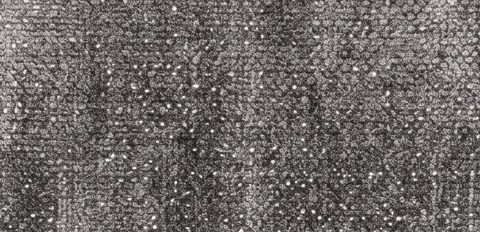
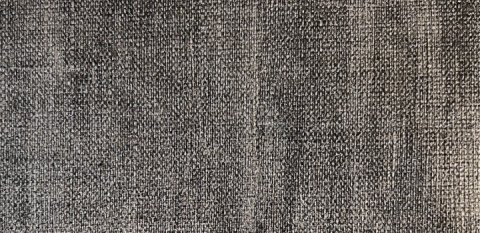
Rono RN01–RN07 dokuları atölye numune fotoğraflarından
Claude-Session: https://claude.ai/code/session_01QER1FqZCmw8rrYpwEQ2poJ

diff --git a/uretim_takip/uretim/parcali.py b/uretim_takip/uretim/parcali.py
@@ -64,13 +64,13 @@ MALZEMELER = [
     ("bienca_bn04", "Bienca BN04 Altın & gümüş eskitme", "#c8ab62"),
     ("bienca_bn05", "Bienca BN05 Krem & yoğun altın eskitme", "#c9bc94"),
     # Rono (üçlü lamine: süet + keçe + Rono) – müşteri kartelası RN01–RN07 (2026-11-05). Anahtarlar eski kayıtlar için aynı.
-    ("acik_gri_keten", "Rono RN01 Gri / vizon", "#b2a092"),
-    ("gri_keten", "Rono RN02 Koyu gri / gümüş", "#676260"),
-    ("krem_keten", "Rono RN03 Krem / bej", "#dbbfa5"),
-    ("antrasit_keten", "Rono RN04 Antrasit / siyah", "#2b2a2c"),
-    ("vizon_keten", "Rono RN05 Vizon / sütlü kahve", "#92755c"),
-    ("kahve_keten", "Rono RN06 Koyu kahve", "#4c3329"),
-    ("beyaz_keten", "Rono RN07 Ekru / beyaz", "#e6dace"),
+    ("acik_gri_keten", "Rono RN01 Gri / vizon", "#a09489"),
+    ("gri_keten", "Rono RN02 Koyu gri / gümüş", "#676361"),
+    ("krem_keten", "Rono RN03 Krem / bej", "#bfad99"),
+    ("antrasit_keten", "Rono RN04 Antrasit / siyah", "#2b2c30"),
+    ("vizon_keten", "Rono RN05 Vizon / sütlü kahve", "#7c6d5a"),
+    ("kahve_keten", "Rono RN06 Koyu kahve", "#513b32"),
+    ("beyaz_keten", "Rono RN07 Ekru / beyaz", "#d3cbc2"),
     # varaklı / simli / metalik
     ("varak_altin", "Beyaz-altın varak", "#e9dcbc"),
     ("varak_gumus", "Beyaz-gümüş varak", "#cfd0d1"),

diff --git a/uretim_takip/uretim/foto_model.py b/uretim_takip/uretim/foto_model.py
@@ -22,7 +22,7 @@ from . import parcali
 KLASOR = Path(__file__).resolve().parent / "tasarim_varlik" / "foto_model"
 DOKU = Path(__file__).resolve().parent / "tasarim_varlik" / "doku"
 ONBELLEK_SINIR = 600
-SURUM = 5  # boyama yöntemi değişince önbellek yenilensin  # önbellekte en çok bu kadar boyanmış resim kalır
+SURUM = 6  # boyama yöntemi değişince önbellek yenilensin  # önbellekte en çok bu kadar boyanmış resim kalır
 
 # bölge türleri: hangi renkler seçilebilir
 MALZEME, DESEN, IPLIK = "malzeme", "desen", "iplik"

diff --git a/CLAUDE.md b/CLAUDE.md
@@ -116,6 +116,7 @@ Formlar `forms.py`, ekranlar `templates/uretim/`, menü `../templates/base.html`
 - İş kolu: programı çok müşterili yapmak (firma adı/logo/istasyon/ürün ayardan).
 
 ## Günlük (en yeni üstte, bir satır)
+- 2026-11-06: Rono RN01–07 dokuları kullanıcının numune fotoğraflarından (`is_belgeleri/rono_numune/`, kartvizit ölçek ~75 px/cm, renk resmî kartelaya %75 yaklaştırıldı, RN05 metalik bronz numune); kartela küçük resimleri + `parcali` hex'leri güncellendi; foto_model SURUM 6. Kullanıcıya önerilen yeni yön (onay bekliyor): boyama yerine halıyı gerçek malzeme dokuları + lazer DXF + nakış DST dosyalarıyla parça parça kurmak; bekleniyor: gümüş biye foto, lazer desen dosyaları, nakış dosyaları.
 - 2026-11-06: 3. güncelleme (migration 0034): Bienca dokuları kullanıcının büyük fotoğraflarından (`doku/bienca_bn01–05.jpg`, ışık düzeltilmiş; BN05 yeni Krem & yoğun altın, BN02 adı Bakır eskitme), Bienca bölgeyi tek parça kaplar (`_bienca_kapla`, tekrar yok); `doku/altin.jpg` gerçek altın; bölge aileleri `bolge_secenekleri` (zemin kendi ailesi RN01–07 / BN, bant RN+BN, desen/biye +altın/gümüş); nakışlı bant `NAKISLI_BANT` (Rono üstüne motif dört kenar, `_nakis_isle` kabartma + saten); RNO-013 nakışlı Rono yakın görünüm (`NAKIS_KUTULARI`, motif sil + yeniden işle), BNA-027/028 (harita aracı `is_belgeleri/foto_model_katalog/yeni_harita.py`); 5 Bienca modelinin ortası BN; bayi Sipariş ver'de ≤3 fotoğraf (`SiparisFotografi.EN_COK` 4), Siparişlerim'de görür, medya yalnız kendi siparişi.
 - 2026-11-05: Aşama 2: katalogdaki 31 Rono/Bienca fotoğrafı fotoğraflı model (`tasarim_varlik/foto_model/katalog.json` + KOD.png, fotoğraf katalog_tohum'dan; harita aracı `is_belgeleri/foto_model_katalog/` yarı otomatik: yüksek frekans enerjisi + `ozel.json` elle orta), bölgeler 1 dış kenar / 2 desenli bant / 3 orta (`sira`); fikirde bant açık/metal, zemin kendi ailesinde; lazer deseni değiştirme (`DESEN_DEGISIR`, `hali_gorsel._kenar_desen_maskesi`, dikdörtgen çerçeveler) ve RNO-006 nakış motifi değiştirme (`NAKIS_DEGISIR`). RNO-007 desen değişimi kötü → kapalı.
 - 2026-11-05: Aşama 1 (migration 0033): siyah simli + ayna altın kalktı (altın + gümüş kalır, `ESKI_MALZEME`), iplik kenar/metalden bağımsız, 5 kötü nakış motifi silindi (61.02, 54.01, 60.03, 73.01, 74.01 → `ESKI_MOTIF`), yönetici ↩ geri al (`servisler.islem_geri_al`, `IslemKaydi.stok_dusumu`, iş sayfasında son işlem), bayi menü yalnız Sipariş ver + Siparişlerim; Sipariş ver önce Suni deri / Deri-kürk (`bayi_views.seri_turu`, `bayi_siparis_tur.html`); stüdyolar yalnız yönetici (menü 🎨 Stüdyo, önizleme, gönderemez; `bayi_siniri`, testlerde `STUDYO_BAYIYE_ACIK`); Bayiler'de stüdyo aç/kapa kalktı. Sıradaki: Aşama 2 (bütün Rono/Bienca fotoğraflı + nakış/desen değiştirme).
